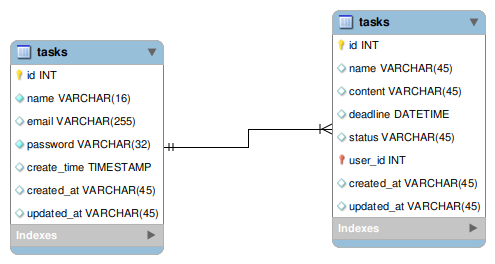
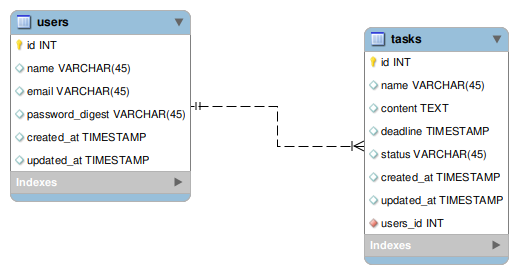
task list and details screen added. Task migration added.

diff --git a/app/assets/stylesheets/scaffolds.scss b/app/assets/stylesheets/scaffolds.scss
@@ -1,0 +1,84 @@
+body {
+  background-color: #fff;
+  color: #333;
+  margin: 33px;
+  font-family: verdana, arial, helvetica, sans-serif;
+  font-size: 13px;
+  line-height: 18px;
+}
+
+p, ol, ul, td {
+  font-family: verdana, arial, helvetica, sans-serif;
+  font-size: 13px;
+  line-height: 18px;
+}
+
+pre {
+  background-color: #eee;
+  padding: 10px;
+  font-size: 11px;
+}
+
+a {
+  color: #000;
+
+  &:visited {
+    color: #666;
+  }
+
+  &:hover {
+    color: #fff;
+    background-color: #000;
+  }
+}
+
+th {
+  padding-bottom: 5px;
+}
+
+td {
+  padding: 0 5px 7px;
+}
+
+div {
+  &.field, &.actions {
+    margin-bottom: 10px;
+  }
+}
+
+#notice {
+  color: green;
+}
+
+.field_with_errors {
+  padding: 2px;
+  background-color: red;
+  display: table;
+}
+
+#error_explanation {
+  width: 450px;
+  border: 2px solid red;
+  padding: 7px 7px 0;
+  margin-bottom: 20px;
+  background-color: #f0f0f0;
+
+  h2 {
+    text-align: left;
+    font-weight: bold;
+    padding: 5px 5px 5px 15px;
+    font-size: 12px;
+    margin: -7px -7px 0;
+    background-color: #c00;
+    color: #fff;
+  }
+
+  ul li {
+    font-size: 12px;
+    list-style: square;
+  }
+}
+
+label {
+  display: block;
+}

diff --git a/db/schema.rb b/db/schema.rb
@@ -1,0 +1,27 @@
+# This file is auto-generated from the current state of the database. Instead
+# of editing this file, please use the migrations feature of Active Record to
+# incrementally modify your database, and then regenerate this schema definition.
+#
+# Note that this schema.rb definition is the authoritative source for your
+# database schema. If you need to create the application database on another
+# system, you should be using db:schema:load, not running all the migrations
+# from scratch. The latter is a flawed and unsustainable approach (the more migrations
+# you'll amass, the slower it'll run and the greater likelihood for issues).
+#
+# It's strongly recommended that you check this file into your version control system.
+
+ActiveRecord::Schema.define(version: 2021_10_04_204947) do
+
+  # These are extensions that must be enabled in order to support this database
+  enable_extension "plpgsql"
+
+  create_table "tasks", force: :cascade do |t|
+    t.string "name"
+    t.text "content"
+    t.datetime "deadline"
+    t.string "status"
+    t.datetime "created_at", null: false
+    t.datetime "updated_at", null: false
+  end
+
+end

diff --git a/app/controllers/tasks_controller.rb b/app/controllers/tasks_controller.rb
@@ -1,0 +1,21 @@
+class TasksController < ApplicationController
+  before_action :set_task, only: %i[ show edit update destroy ]
+
+  def index
+    @tasks = Task.all
+  end
+
+  def show
+  end
+
+ 
+
+  private
+    def set_task
+      @task = Task.find(params[:id])
+    end
+
+    def task_params
+      params.require(:task).permit(:name, :content, :deadline, :status)
+    end
+end

diff --git a/db/migrate/20211004204947_create_tasks.rb b/db/migrate/20211004204947_create_tasks.rb
@@ -1,0 +1,12 @@
+class CreateTasks < ActiveRecord::Migration[5.2]
+  def change
+    create_table :tasks do |t|
+      t.string :name
+      t.text :content
+      t.datetime :deadline
+      t.string :status
+
+      t.timestamps
+    end
+  end
+end

diff --git a/config/routes.rb b/config/routes.rb
@@ -1,3 +1,4 @@
 Rails.application.routes.draw do
+  resources :tasks
   # For details on the DSL available within this file, see http://guides.rubyonrails.org/routing.html
 end

diff --git a/app/models/task.rb b/app/models/task.rb
@@ -1,0 +1,2 @@
+class Task < ApplicationRecord
+end
